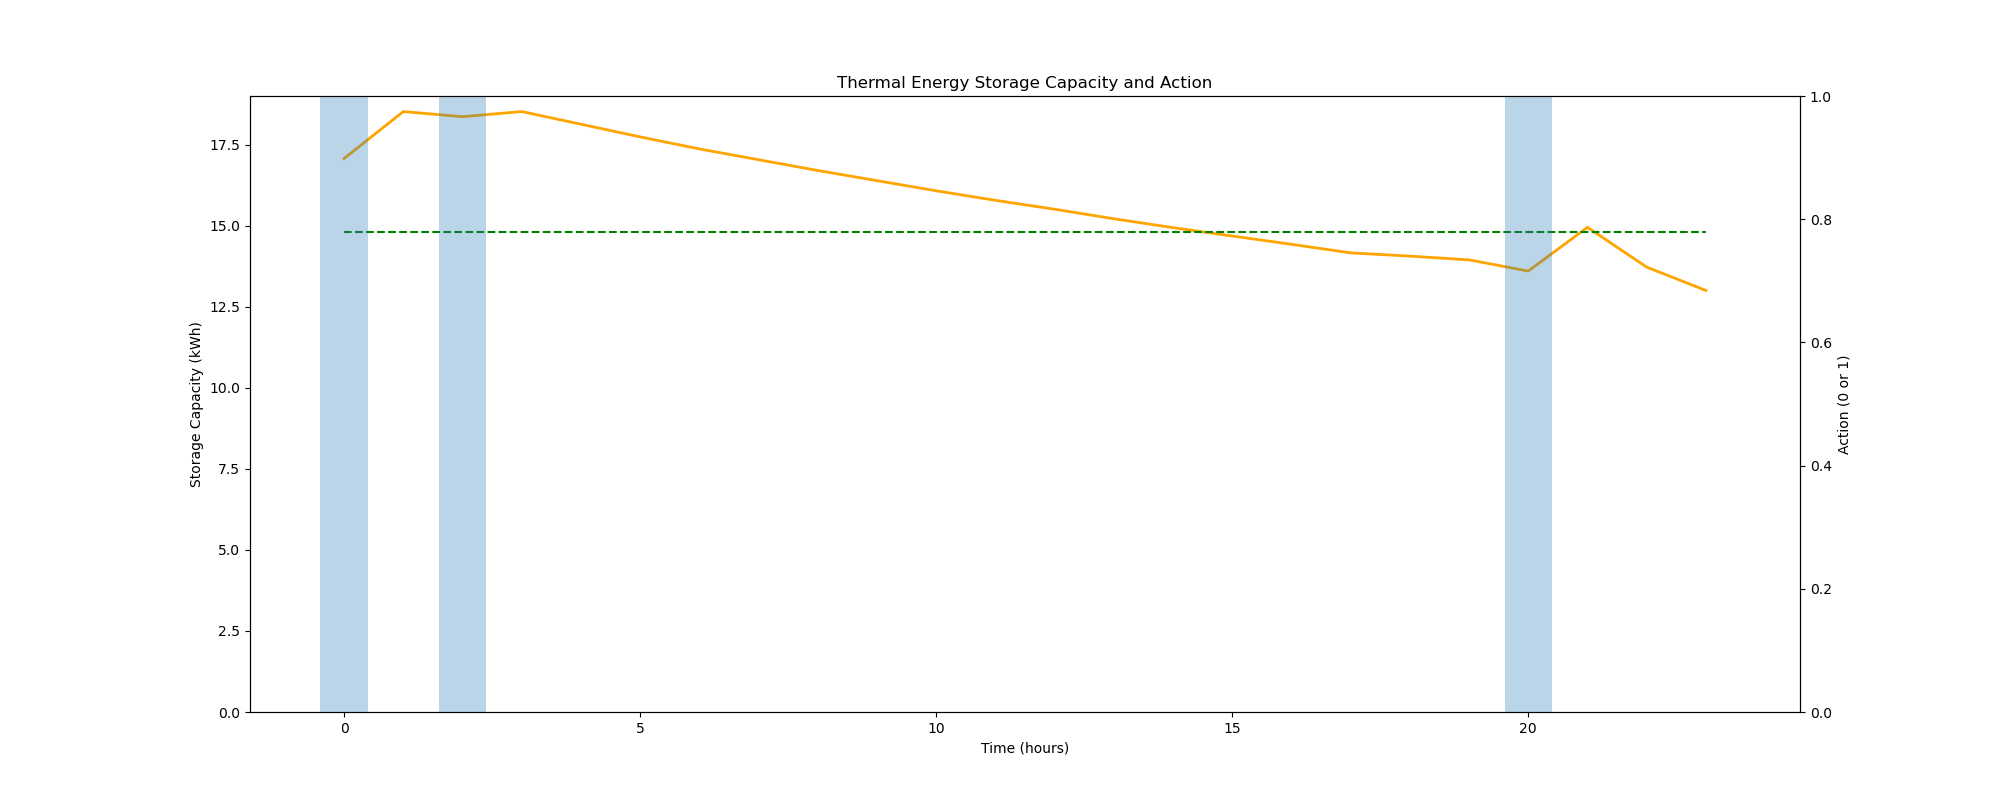
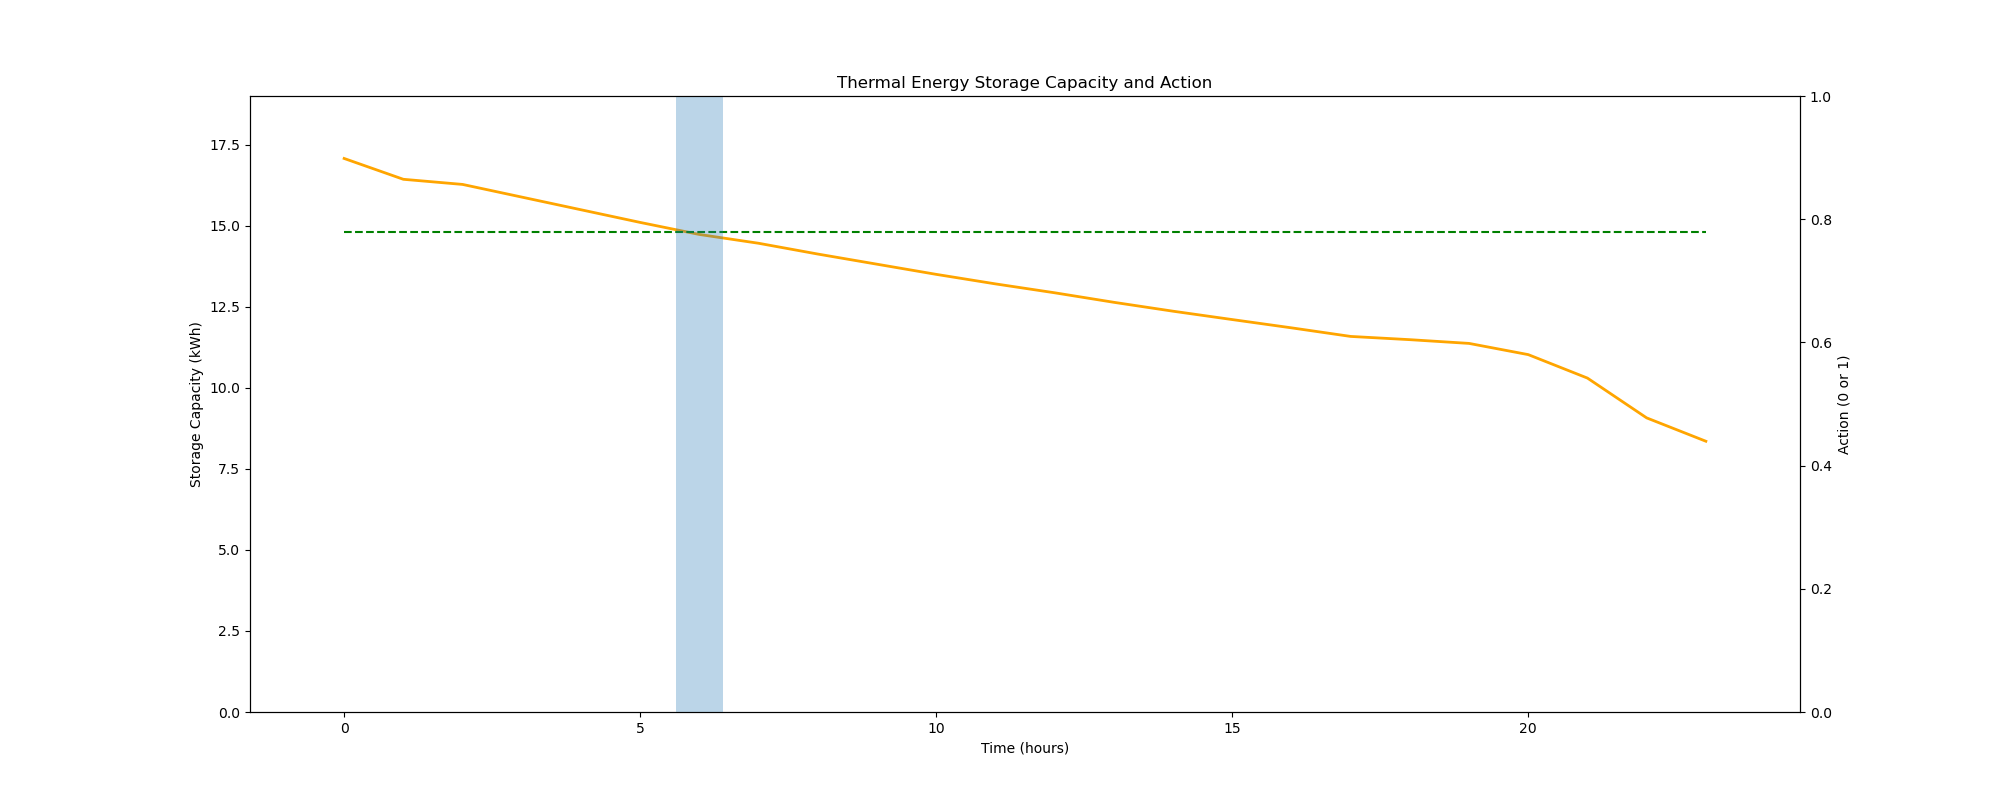
a

diff --git a/RL_policy/policyLSTMCritic.py b/RL_policy/policyLSTMCritic.py
@@ -23,7 +23,7 @@ device = torch.device("cuda" if torch.cuda.is_available() else "cpu")
 
 
 # class PolicyNet(nn.Module):
-#     def __init__(self, input_size, hidden_size, output_size):
+#     def __init__(self, input_size, hidden_size, output_size=2):
 #         super(PolicyNet, self).__init__()
 #         self.input_size = input_size
 #         self.hidden_size = hidden_size
@@ -34,22 +34,20 @@ device = torch.device("cuda" if torch.cuda.is_available() else "cpu")
 #         self.device = device
 
 #     def init_hidden(self, batch_size):
-#         return (torch.zeros(1, batch_size, self.hidden_size*2).to(self.device),
-#                 torch.zeros(1, batch_size, self.hidden_size*2).to(self.device))
+#         return (torch.zeros(2, batch_size, self.hidden_size).to(self.device),
+#                 torch.zeros(2, batch_size, self.hidden_size).to(self.device))
     
 #     def forward(self, x):
 #         hidden = self.init_hidden(x.size(0))
 #         out, _ = self.lstm(x,hidden)
-
-#         out = self.relu(out)
+#         out = self.fc(out)
 #         out = torch.softmax(out, dim=-1)
 
 #         return out
 
 
-
 class PolicyNet(nn.Module):
-    def __init__(self, input_size, hidden_size, output_size, nhead=4, transformer_layers=2):
+    def __init__(self, input_size, hidden_size, output_size, nhead=8, transformer_layers=1):
         super(PolicyNet, self).__init__()
 
         encoder_layers = nn.TransformerEncoderLayer(hidden_size, nhead, batch_first=True)
@@ -69,7 +67,7 @@ class PolicyNet(nn.Module):
         return out
 
 class CriticNet(nn.Module):
-    def __init__(self, input_size, hidden_size, output_size, nhead=2, transformer_layers=1):
+    def __init__(self, input_size, hidden_size, output_size, nhead=8, transformer_layers=1):
         super(CriticNet, self).__init__()
 
         encoder_layers = nn.TransformerEncoderLayer(hidden_size, nhead, batch_first=True)
@@ -95,6 +93,7 @@ class LSTMRL:
         self.model = PolicyNet(input_size, hidden_size, output_size).to(self.device)
         self.optimizer = optim.Adam(self.model.parameters(), lr=learning_rate)
         self.scheduler = StepLR(self.optimizer, step_size=100, gamma=0.1)
+        self.lr_schedule = lr_schedule
         self.loss_fn = nn.CrossEntropyLoss()
         self.epsilon = epsilon
         self.batch_size = batch_size
@@ -124,7 +123,6 @@ class LSTMRL:
 
 
 
-            
                 # Forward pass
                 self.model.zero_grad()
                 probs = self.model(self.scale(states_batch).to(self.device))  
@@ -136,7 +134,6 @@ class LSTMRL:
                 baseline = state_values.detach()
 
                 rewards_batch = rewards_batch - baseline
-
 
 
                 policy_gradients = torch.zeros(batch_size, seq_len).to(self.device)
@@ -173,7 +170,7 @@ class LSTMRL:
             epoch_loss = running_loss / len(dataset)
             epoch_value_loss = running_value_loss / len(dataset)
 
-            if lr_schedule:
+            if self.lr_schedule:
                 self.scheduler.step()
                 self.scheduler_critic.step()
 
@@ -311,9 +308,9 @@ class LSTMRL:
 
 
         tensor_reshaped = tensor.view(-1, tensor.shape[-1])
-        tensor_np = tensor_reshaped.numpy()
+        tensor_np = tensor_reshaped.cpu().numpy()
         tensor_scaled_np = self.scaler.transform(tensor_np)
-        tensor_scaled = torch.tensor(tensor_scaled_np, dtype=tensor.dtype)
+        tensor_scaled = torch.tensor(tensor_scaled_np, dtype=tensor.dtype).to(device)
         tensor_scaled = tensor_scaled.view(tensor.shape)
 
         return tensor_scaled
@@ -325,10 +322,15 @@ input_size= 5
 hidden_size = 256
 lr = 0.000001
 output_size= 2
-episodes = 50
+episodes = 200
 num_trajectories = 300 # max days: ~ 430
-epsilon = 0.02
+epsilon = 0.1
 lr_schedule = True
+
+resample = None
+if seq_len == 24:
+  resample = "h"
+
 
 '''
 NUM_TRAJECTORIES: important parameter; case = 100: batch_size = 64 --> only 2 updates per epoch --> 64 + 36
@@ -348,7 +350,7 @@ args = {
 
 
 
-dataset = DataSet(start_date="2022-01-01", target="i_m1sum", scale_target=False, scale_variables=False, time_features=False, resample="h",dynamic_price=False, demand_price=args["demand_price"], feedin_price=args["feedin_price"]).pipeline()
+dataset = DataSet(start_date="2022-01-01", target="i_m1sum", scale_target=False, scale_variables=False, time_features=False, resample=resample,dynamic_price=False, demand_price=args["demand_price"], feedin_price=args["feedin_price"]).pipeline()
 dataset["excess"] = (dataset.i_m1sum - dataset.power_consumption_kwh).clip(lower=0)
 dataset = dataset[["date", "excess", "demand_price", "feedin_price", "thermal_consumption_kwh", "kwh_eq_state"]]
 

diff --git a/RL_policy/policyLSTM.py b/RL_policy/policyLSTM.py
@@ -49,7 +49,7 @@ device = torch.device("cuda" if torch.cuda.is_available() else "cpu")
 
 
 class PolicyNet(nn.Module):
-    def __init__(self, input_size, hidden_size, output_size, nhead=4, transformer_layers=2):
+    def __init__(self, input_size, hidden_size, output_size, nhead=8, transformer_layers=3):
         super(PolicyNet, self).__init__()
 
         encoder_layers = nn.TransformerEncoderLayer(hidden_size, nhead, batch_first=True)
@@ -295,10 +295,14 @@ input_size= 5
 hidden_size = 256
 lr = 0.000001
 output_size= 2
-episodes = 50
+episodes = 120
 num_trajectories = 300 # max days: ~ 430
 epsilon = 0.02
 lr_schedule = True
+
+resample = None
+if seq_len == 24:
+  resample = "h"
 
 '''
 NUM_TRAJECTORIES: important parameter; case = 100: batch_size = 64 --> only 2 updates per epoch --> 64 + 36
@@ -318,7 +322,7 @@ args = {
 
 
 
-dataset = DataSet(start_date="2022-01-01", target="i_m1sum", scale_target=False, scale_variables=False, time_features=False, resample="h",dynamic_price=False, demand_price=args["demand_price"], feedin_price=args["feedin_price"]).pipeline()
+dataset = DataSet(start_date="2022-01-01", target="i_m1sum", scale_target=False, scale_variables=False, time_features=False, resample=resample,dynamic_price=False, demand_price=args["demand_price"], feedin_price=args["feedin_price"]).pipeline()
 dataset["excess"] = (dataset.i_m1sum - dataset.power_consumption_kwh).clip(lower=0)
 dataset = dataset[["date", "excess", "demand_price", "feedin_price", "thermal_consumption_kwh", "kwh_eq_state"]]
 

diff --git a/RL_policy/environments/ENV_policyGradient.py b/RL_policy/environments/ENV_policyGradient.py
@@ -20,7 +20,7 @@ class Environment:
         self.gamma1 = gamma1
         self.gamma2 = gamma2
         self.gamma3 = gamma3
-        self.gaussian_a = 0.25     # the lower the parameter, the broader the gaussian curve
+        self.gaussian_a = 0.05 #0.25     # the lower the parameter, the broader the gaussian curve
         self.cool_down = 0.1
 
 
@@ -97,7 +97,7 @@ class Environment:
 
 
         distance_to_optimum = abs(state - self.optimum_storage)
-        reward_o += torch.exp(-self.gaussian_a * distance_to_optimum**2) * 10
+        reward_o += torch.exp(-self.gaussian_a * distance_to_optimum**2) * 5
 
         reward += reward_o * self.gamma2
 
